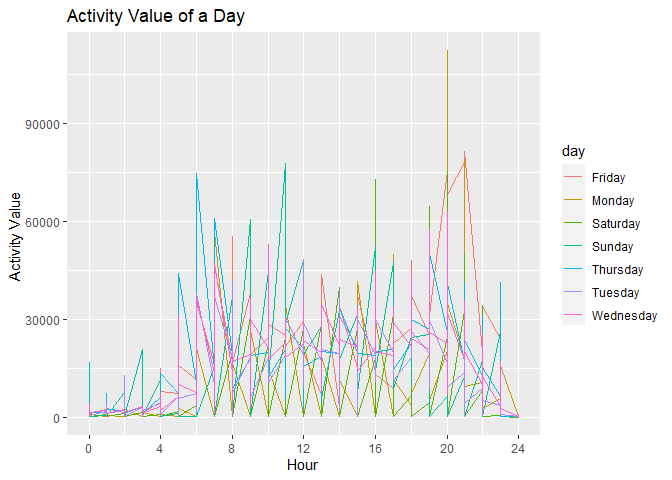
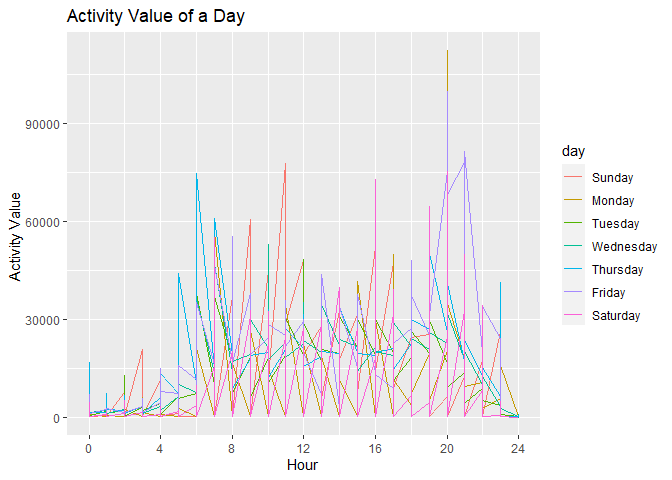
Finish homework.

diff --git a/P8105_hw3_xh2470.md b/P8105_hw3_xh2470.md
@@ -91,6 +91,9 @@ instacart %>%
 
 ![](P8105_hw3_xh2470_files/figure-gfm/unnamed-chunk-3-1.png)<!-- -->
 
+Among aisles contain more than 10000 items, fresh vegetables contains
+the most items and butter contains the least items.
+
 3.  Make a table showing the three most popular items in each of the
     aisles “baking ingredients”, “dog food care”, and “packaged
     vegetables fruits”. Include the number of times each item is ordered
@@ -121,6 +124,11 @@ instacart  %>%
 | packaged vegetables fruits | Organic Raspberries                           |   5546 |       2 |
 | packaged vegetables fruits | Organic Blueberries                           |   4966 |       3 |
 
+The most popular item in the category of baking ingredients, dog food
+care, and packaged vegetables fruits is Light Brown Sugar, Snack Sticks
+Chicken & Rice Recipe Dog Treats, and Organic Baby Spinach,
+respectively.
+
 4.  Make a table showing the mean hour of the day at which Pink Lady
     Apples and Coffee Ice Cream are ordered on each day of the week;
     format this table for human readers (i.e. produce a 2 x 7 table).
@@ -146,6 +154,9 @@ instacart  %>%
 | Coffee Ice Cream | 13.77419 | 14.31579 | 15.38095 | 15.31818 | 15.21739 | 12.26316 | 13.83333 |
 | Pink Lady Apples | 13.44118 | 11.36000 | 11.70213 | 14.25000 | 11.55172 | 12.78431 | 11.93750 |
 
+Customers who ordered Pink Lady Apples and Coffee Ice Cream prefer to
+place their orders in the middle of the day.
+
 # Problem 2
 
 First, do some data cleaning:
@@ -158,7 +169,29 @@ brfss_smart2010 =
   janitor::clean_names() %>% 
   filter(topic == "Overall Health", response %in% c("Excellent", "Very good", "Good", "Fair", "Poor")) %>% 
   mutate(response = factor(response, levels = c("Poor", "Fair", "Good", "Very good","Excellent" )))   #organize responses as a factor 
+
+brfss_smart2010
 ```
+
+    ## # A tibble: 10,625 x 23
+    ##     year locationabbr locationdesc  class  topic  question  response sample_size
+    ##    <int> <chr>        <chr>         <chr>  <chr>  <chr>     <fct>          <int>
+    ##  1  2010 AL           AL - Jeffers~ Healt~ Overa~ How is y~ Excelle~          94
+    ##  2  2010 AL           AL - Jeffers~ Healt~ Overa~ How is y~ Very go~         148
+    ##  3  2010 AL           AL - Jeffers~ Healt~ Overa~ How is y~ Good             208
+    ##  4  2010 AL           AL - Jeffers~ Healt~ Overa~ How is y~ Fair             107
+    ##  5  2010 AL           AL - Jeffers~ Healt~ Overa~ How is y~ Poor              45
+    ##  6  2010 AL           AL - Mobile ~ Healt~ Overa~ How is y~ Excelle~          91
+    ##  7  2010 AL           AL - Mobile ~ Healt~ Overa~ How is y~ Very go~         177
+    ##  8  2010 AL           AL - Mobile ~ Healt~ Overa~ How is y~ Good             224
+    ##  9  2010 AL           AL - Mobile ~ Healt~ Overa~ How is y~ Fair             120
+    ## 10  2010 AL           AL - Mobile ~ Healt~ Overa~ How is y~ Poor              66
+    ## # ... with 10,615 more rows, and 15 more variables: data_value <dbl>,
+    ## #   confidence_limit_low <dbl>, confidence_limit_high <dbl>,
+    ## #   display_order <int>, data_value_unit <chr>, data_value_type <chr>,
+    ## #   data_value_footnote_symbol <chr>, data_value_footnote <chr>,
+    ## #   data_source <chr>, class_id <chr>, topic_id <chr>, location_id <chr>,
+    ## #   question_id <chr>, respid <chr>, geo_location <chr>
 
 Using this dataset, do or answer the following (commenting on the
 results of each):
@@ -274,6 +307,9 @@ p2_q2 %>%
 
 ![](P8105_hw3_xh2470_files/figure-gfm/unnamed-chunk-8-1.png)<!-- -->
 
+The distribution of the average value over time within a state is
+concentrated.
+
 3.  Make a two-panel plot showing, for the years 2006, and 2010,
     distribution of data\_value for responses (“Poor” to “Excellent”)
     among locations in NY State.
@@ -290,6 +326,9 @@ brfss_smart2010 %>%
 ```
 
 ![](P8105_hw3_xh2470_files/figure-gfm/unnamed-chunk-9-1.png)<!-- -->
+
+Whether in the year of 2006 or 2010, data\_value for responses among
+locations in NY State have little difference.
 
 # Problem 3
 
@@ -322,6 +361,25 @@ data = read_csv("./data/accel_data.csv") %>%
     ## 
     ## i Use `spec()` to retrieve the full column specification for this data.
     ## i Specify the column types or set `show_col_types = FALSE` to quiet this message.
+
+``` r
+data
+```
+
+    ## # A tibble: 50,400 x 6
+    ##     week day_id day    weekday_vs_weekend minute activity_value
+    ##    <dbl>  <dbl> <chr>  <chr>              <chr>           <dbl>
+    ##  1     1      1 Friday weekday            1                88.4
+    ##  2     1      1 Friday weekday            2                82.2
+    ##  3     1      1 Friday weekday            3                64.4
+    ##  4     1      1 Friday weekday            4                70.0
+    ##  5     1      1 Friday weekday            5                75.0
+    ##  6     1      1 Friday weekday            6                66.3
+    ##  7     1      1 Friday weekday            7                53.8
+    ##  8     1      1 Friday weekday            8                47.8
+    ##  9     1      1 Friday weekday            9                55.5
+    ## 10     1      1 Friday weekday            10               43.0
+    ## # ... with 50,390 more rows
 
 This dataset collects accelerometer data of a 63 year-old male with BMI
 25. It shows the activity value for each minute of a 24-hour day for the
@@ -407,7 +465,8 @@ more active in the first half of the study than the second half.
 
 ``` r
 data %>% 
-  mutate(hour = floor(as.numeric(minute)/60)) %>% 
+  mutate(hour = floor(as.numeric(minute)/60),
+         day = factor(day, levels = c("Sunday", "Monday", "Tuesday", "Wednesday", "Thursday", "Friday", "Saturday"))) %>% 
   group_by(day_id, day, hour) %>% 
   summarize(activity_of_hour = sum(activity_value)) %>% 
   ggplot(aes(x = hour , y = activity_of_hour, color = day)) +
